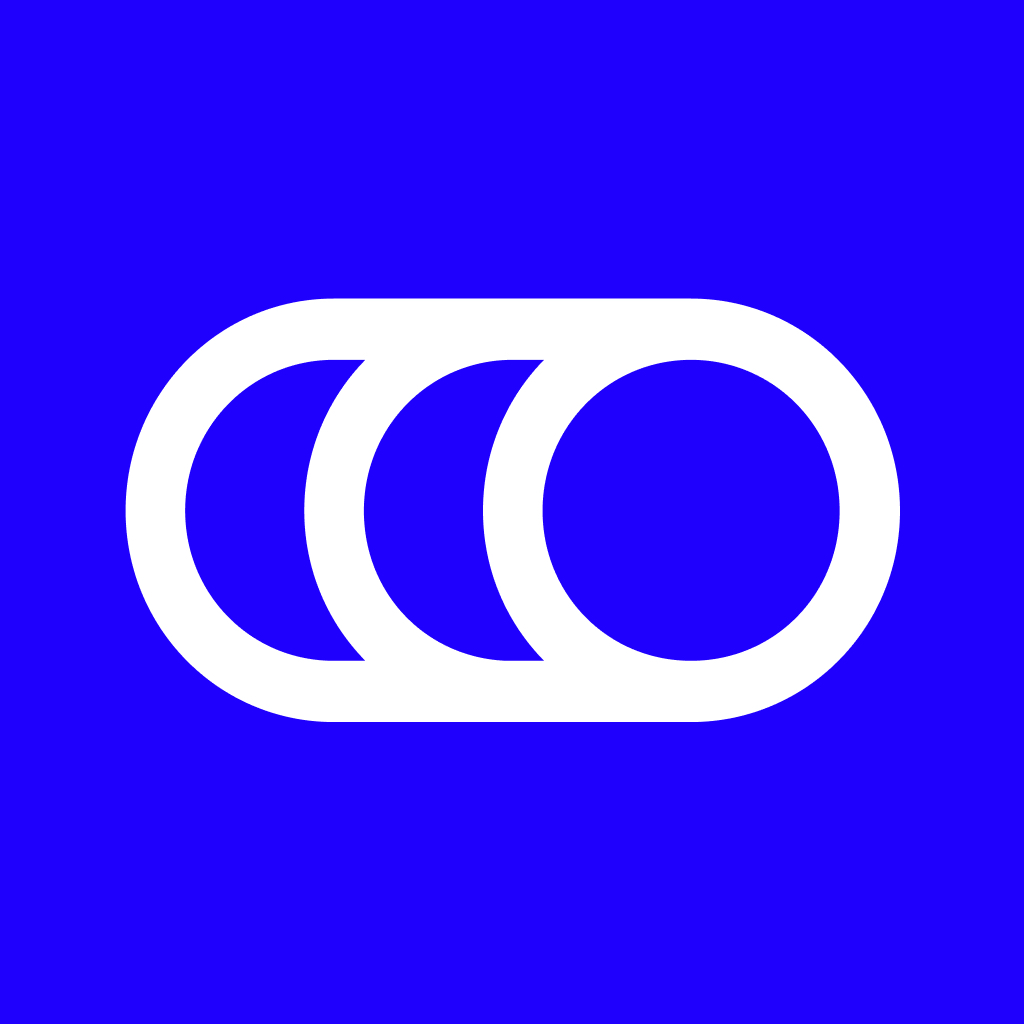
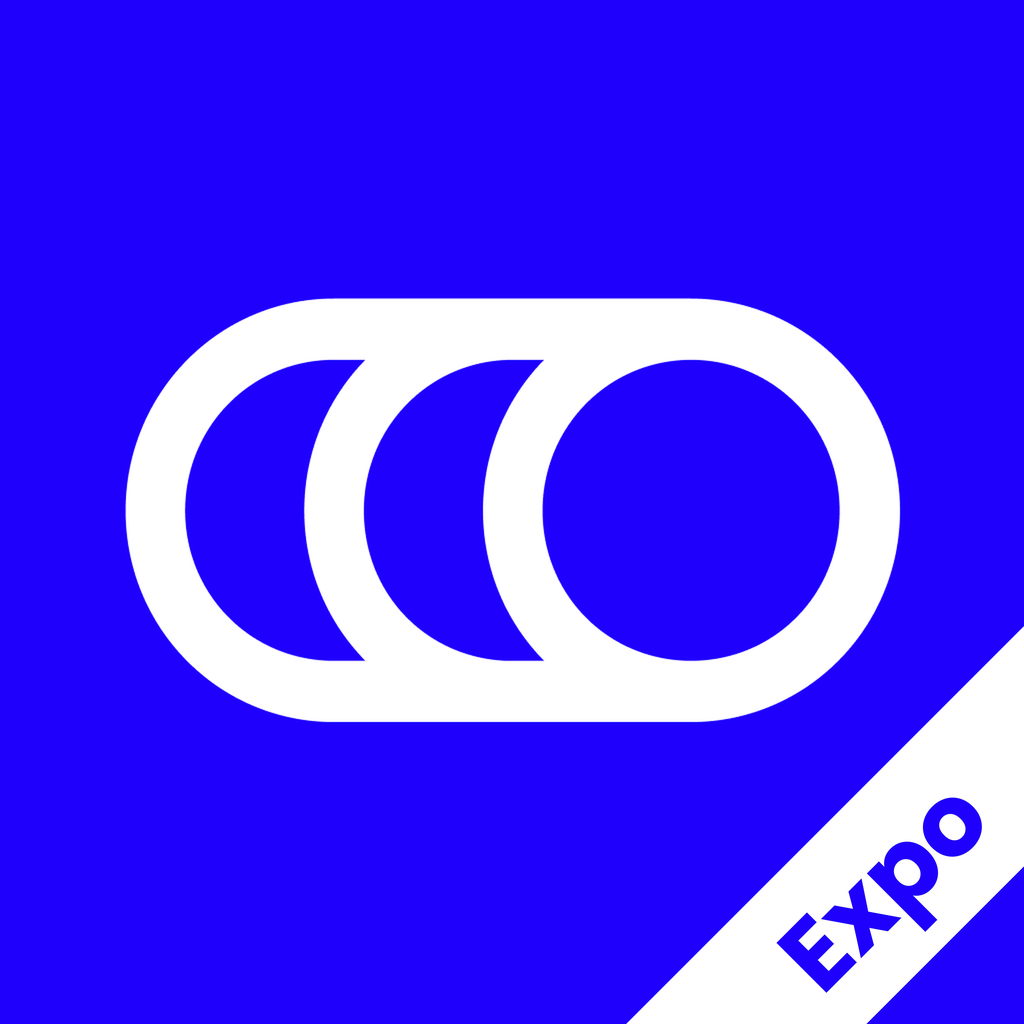
feat(ONR-1889): add camera & microphone usage descriptions to iOS example apps (#13)
* feat(ONR-1889): add camera & microphone usage descriptions to iOS example apps

Without NSCameraUsageDescription iOS turns down the checkout webview's
getUserMedia request without prompting, so ID/selfie KYC cannot use the
camera and the app gets no Camera toggle in Settings. Document the
required keys for integrators.

* chore(ONR-1889): update RN and Expo example app icons

---------

Changed region(s): [[0.5938, 0.5938, 1.0, 1.0]]

diff --git a/docs/IOS_BUILD_SETUP.md b/docs/IOS_BUILD_SETUP.md
@@ -1,6 +1,6 @@
 # iOS build setup for `@onramper/onramper-react-native`
 
-Build-time configuration for embedding the Onramper iOS SDK: iOS build settings, App Attest, the first build, and Metro. For the full integration walkthrough — install, usage, error handling, API reference — see [Getting started](doc:headless-react-native-getting-started).
+Build-time configuration for embedding the Onramper iOS SDK: iOS build settings, App Attest, camera & microphone usage descriptions, the first build, and Metro. For the full integration walkthrough — install, usage, error handling, API reference — see [Getting started](doc:headless-react-native-getting-started).
 
 ---
 
@@ -55,7 +55,29 @@ For App Store builds, Xcode automatically switches to `production`.
 
 You'll also need to set a **Development Team** under Signing & Capabilities. The Headless Wrapper works with any team; the bundle ID just needs to be registered with Apple Developer Portal (Xcode does this automatically when you enable automatic signing).
 
-### 2.2 Pod install + first build
+### 2.2 Camera & microphone usage descriptions
+
+Some providers run ID-document or selfie verification inside the checkout webview. Without usage descriptions iOS turns down the webview's camera request without showing a prompt, and the app gets no Camera toggle in Settings.
+
+Bare RN: add to your app's `Info.plist`:
+
+```xml
+<key>NSCameraUsageDescription</key>
+<string>Camera access is required for identity verification</string>
+<key>NSMicrophoneUsageDescription</key>
+<string>Microphone access is required for identity verification</string>
+```
+
+Expo: add them under `ios.infoPlist` in `app.json`:
+
+```json
+"infoPlist": {
+  "NSCameraUsageDescription": "Camera access is required for identity verification",
+  "NSMicrophoneUsageDescription": "Microphone access is required for identity verification"
+}
+```
+
+### 2.3 Pod install + first build
 
 Bare RN:
 
